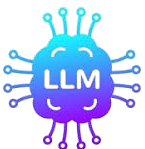
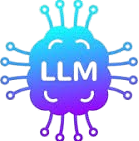
first commit

Changed region(s): [[0.0, 0.0, 1.0, 1.0], [0.4892, 0.3688, 0.518, 0.3972]]

diff --git a/client/src/Project.jsx b/client/src/Project.jsx
@@ -9,6 +9,7 @@ import Emotion from './assets/emotion dedection.jpeg';
 import AI_Potato from './assets/Potato leaf diesese.jpg';
 import Smart_Agri_AI from './assets/Smart Agri AI.png';
 import RAG from './assets/RAG.jpg';
+import YouTube_Learn_AI from './assets/Intelligent YouTube Learn AI.webp'
 import Nutrient_Deficiency from './assets/Nutrient Deficiency.avif';
 
 function Project() {
@@ -41,9 +42,18 @@ function Project() {
       github: "https://github.com/Avins-VR/RAG-Learn-AI"
     },
     {
+      title: "Intelligent YouTube Learn AI",
+      date: "2026",
+      description: "Developed an AI-powered Educational Video Learning Assistant that converts YouTube lectures into structured summaries, key notes, interactive concept maps, downloadable PDF study materials, and difficulty-based MCQs. Implemented an end-to-end RAG pipeline using transcript extraction, embeddings, ChromaDB, and Groq LLaMA 3 for context-aware doubt clarification, personalized learning recommendations, and accurate video-specific responses. Built an interactive Streamlit application for real-time AI-assisted learning, revision, and self-assessment, significantly reducing learning time.",
+      image: YouTube_Learn_AI,
+      tech: ['RAG','Groq LLaMA 3', 'ChromaDB'],
+      demo: "https://intelligent-youtube-learn-ai.streamlit.app/",
+      github: "https://github.com/Avins-VR/Intelligent-YouTube-Learn-AI"
+    },
+    {
       title:"AI-powered Car Parking Spot Dedection ",
       date:"2025",
-      description: "Smart Parking System is a computer vision-based solution that detects parking occupancy from images and video using mask-based classification, enabling real-time space identification, reducing search time, and minimizing congestion.",
+      description: "Smart Parking System is a computer vision-based solution that detects parking space availability using images and video streams. It uses mask-based classification techniques to identify occupied and vacant parking slots in real time.The system helps drivers quickly find available spaces, reducing parking search time and traffic congestion.It enables automated parking monitoring, efficient space utilization, and improved parking management.The solution supports smart city applications by providing accurate, scalable, and cost-effective parking solutions.",
       image:parking,
       tech: ['OpenCV','SVM','YOLO'],
       demo: "https://github.com/Avins-VR/Car-Parking-spot-Dedection-Open-CV-",
@@ -52,7 +62,7 @@ function Project() {
     {
       title: "SafeRoute",
       date: "2025",
-      description: "SafeRoute is a personal safety app focused on smart travel, featuring area safety checks, live location sharing, and SOS alerts for safer journeys. It helps users assess surroundings using lighting, crowd density, and nearby emergency data, providing safer route suggestions and real-time decision-making.",
+      description: "SafeRoute is a personal safety application designed to provide secure and intelligent travel assistance through smart navigation features.It offers area safety analysis, live location sharing, and instant SOS alerts to improve user security during journeys.The app evaluates surroundings using factors such as lighting conditions, crowd density, and nearby emergency resources.It provides safer route recommendations and real-time safety insights to help users make informed travel decisions.SafeRoute enhances personal security by combining technology, location intelligence, and emergency support for safer mobility.",
       image: SafeRoute,
       tech: ['Tailwind CSS', 'MERN Stack', 'API Integration'],
       demo: "https://saferoute-blze.onrender.com/",
@@ -97,7 +107,7 @@ function Project() {
     {
       title: "Blackjack Game",
       date: "2024",
-      description: "Blackjack Game is an interactive project that recreates the classic casino card game with dynamic animations, real-time score tracking, and responsive gameplay for an engaging user experience.",
+      description: "Blackjack Game is an interactive project that recreates the classic casino card game with dynamic animations, real-time score tracking, responsive gameplay, and intuitive game logic, delivering an engaging and immersive user experience.",
       image: BlackjackGame,
       tech: ['HTML', 'CSS', 'JavaScript'],
       demo: "https://avins-vr.github.io/Blackjack-game/Blackjack/Blackjack.html",